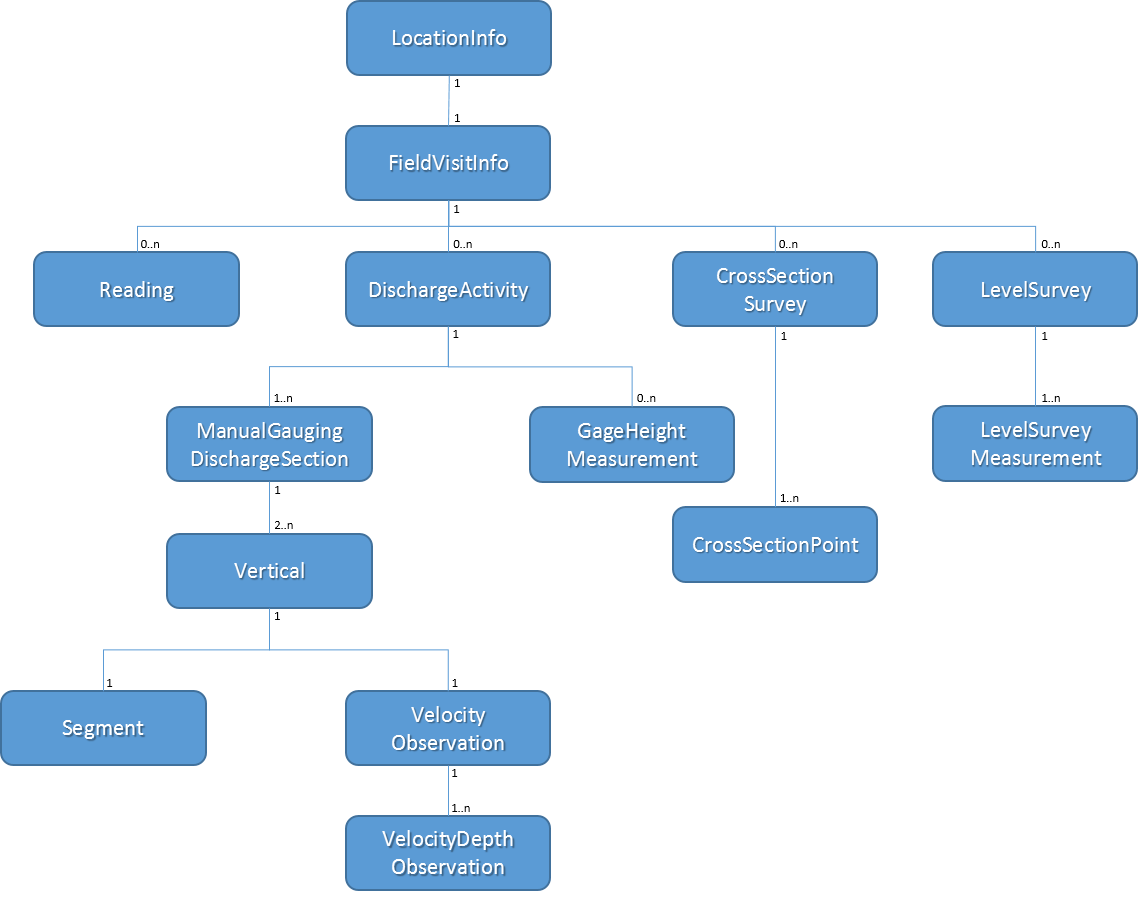
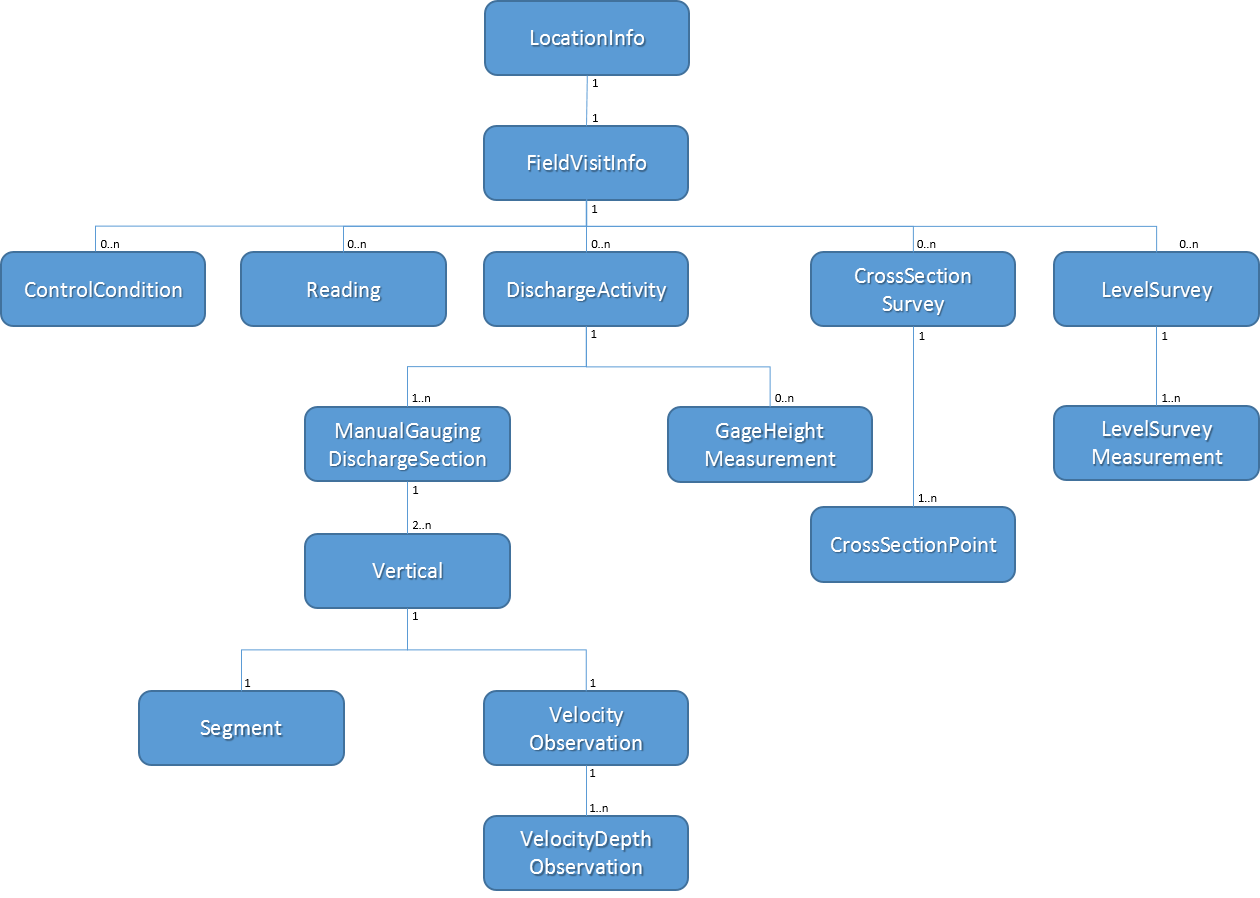
AQ-23735 Update Field Data Plug-in Developer Guide with 2018.2 changes

diff --git a/docs/Readme.md b/docs/Readme.md
@@ -12,7 +12,16 @@ This guide provides guidance for developing custom field data plug-ins for AQUAR
 
 If you would like to see more examples of field data plug-ins, please visit our [**Examples Repository**](https://github.com/AquaticInformatics/Examples/tree/master/TimeSeries/PublicApis/FieldDataPlugins) on GitHub.
 
-## Change log
+## Change Log
+
+### AQTS 2018.2
+
+- Added support to set reference points on Readings
+- Added Weather, CollectionAgency and CompletedVisitActivities properties on FieldVisitDetails
+- Added AdjustmentType, AdjustmentAmount, and ReasonForAdjustment properties on DischargeActivity
+- Expanded GageHeightCalculationType to support ManuallyCalculated and SimpleAverage options on DischargeActivity
+- Added support for ControlConditions
+- Enhanced the field data plug-in framework to support uploading attachments with a field data file
 
 ### AQTS 2018.1
 
@@ -21,7 +30,7 @@ If you would like to see more examples of field data plug-ins, please visit our 
 
 ### AQTS 2017.4
 
-- First supported release of the plugin framework
+- First supported release of the plug-in framework
 - The PDF of the 2017.4 framework guide can be found [here.](https://github.com/AquaticInformatics/aquarius-field-data-framework/blob/v17.4.3/docs/AQUARIUSDeveloperGuideFieldDataPluginFramework.pdf)
 
 # Overview
@@ -75,7 +84,7 @@ All Framework SDK data objects require timestamps specified as **DateTimeOffset*
 
 Similarly, **FieldVisitInfo** is an immutable object. It is created when the plug-in uses the **IFieldDataResultsAppender** to add an instance of a **FieldVisitDetails** object to a location.
 
-There are factory methods to create an instance of **CrossSectionSurvey**, **DischargeActivity**, and **ManualGaugingDischargeSection** object. Plug-ins should also use **IFieldDataResultsAppender** to add **Reading**, **CrossSectionSurvey**, **LevelSurvey** and **DischargeActivity** objects to the **IFieldVisitInfo**.
+There are factory methods to create an instance of **CrossSectionSurvey**, **DischargeActivity**, and **ManualGaugingDischargeSection** object. Plug-ins should also use **IFieldDataResultsAppender** to add field data objects to **IFieldVisitInfo**.
 
 Some enumerated types in the Framework SDK default to "Unknown" value.  When creating data objects that have these enumerated types as properties, the properties should be set to “Unspecified” value if there is no other appropriate value for it so that the data displays correctly in the Field Data Editor. For example, when creating an instance of **ManualGaugingDischargeSection**,
 
@@ -101,10 +110,10 @@ PM> Install-Package Aquarius.FieldDataFramework
 ```
 
 This will install:
-- the `lib\FieldDataPluginFramework.dll` assembly, which your plugin must consume and implement.
-- the [`tools\PluginTester.exe`](https://github.com/AquaticInformatics/aquarius-field-data-framework/tree/master/src/PluginTester) tool, for quickly testing your plugin without needing an AQTS server
-- the [`tools\PluginPackager.exe`](https://github.com/AquaticInformatics/aquarius-field-data-framework/tree/master/src/PluginPackager) tool, for packaging your plugin into a single `*.plugin` file for easy deployment.
-- the [`tools\FieldDataPluginTool.exe`](https://github.com/AquaticInformatics/aquarius-field-data-framework/tree/master/src/FieldDataPluginTool) tool for easily deploying your packaged plugin on an AQTS server.
+- the `lib\FieldDataPluginFramework.dll` assembly, which your plug-in must consume and implement.
+- the [`tools\PluginTester.exe`](https://github.com/AquaticInformatics/aquarius-field-data-framework/tree/master/src/PluginTester) tool, for quickly testing your plug-in without needing an AQTS server
+- the [`tools\PluginPackager.exe`](https://github.com/AquaticInformatics/aquarius-field-data-framework/tree/master/src/PluginPackager) tool, for packaging your plug-in into a single `*.plugin` file for easy deployment.
+- the [`tools\FieldDataPluginTool.exe`](https://github.com/AquaticInformatics/aquarius-field-data-framework/tree/master/src/FieldDataPluginTool) tool for easily deploying your packaged plug-in on an AQTS server.
 
 # Writing a Field Data Plug-In
 
@@ -133,7 +142,7 @@ In **IFieldDataPlugin**, there are two *ParseFile* method signatures:
     1. Called by the Framework when LocationManager, the Field Data Editor or AQUARIUS Acquisition API is used to import a data file;
     2. Field data will be created in the targetLocation.  If the data file references a location, it must match the targetLocation or the field data will not be imported.
 
-Each *ParseFile* method returns a **ParseFileResult** object.  **ParseFileResult** has static constructors to create an instance to represent the plugin status (SuccessullyParsedAndDataValid, SuccessfullyParsedButDataInvalid, CannotParse).
+Each *ParseFile* method returns a **ParseFileResult** object.  **ParseFileResult** has static constructors to create an instance to represent the plug-in status (SuccessullyParsedAndDataValid, SuccessfullyParsedButDataInvalid, CannotParse).  If your plug-in returns a SuccessfullyParsedButDataInvalid or CannotParser status, we recommend that it includes an error message or exception, which will be displayed as an error message to the user by the drag-and-drop interfaces.
 
 ## Tips
 
@@ -177,13 +186,13 @@ Each plug-in is provided a reference to an **ILog** object when its **ParseFile*
 
 The log messages written to *FieldDataPluginFramework.log* are designed to be easily parsed by log analytic tools, such as LogStash.
 
-# Packaging your plugin for easy deployment
+# Packaging your Plug-In for Easy Deployment
 
 See the [PluginPacker](https://github.com/AquaticInformatics/aquarius-field-data-framework/tree/master/src/PluginPackager) project for details on adding a build step that will automatically create a `*.plugin` file every time your project builds in Visual Studio. This file can be deployed using the `FieldDataPluginTool`.
 
-# Deploy your plugin using the FieldDataPluginTool
+# Deploy your plug-in using the FieldDataPluginTool
 
-See the [FieldDataPluginTool](https://github.com/AquaticInformatics/aquarius-field-data-framework/tree/master/src/FieldDataPluginTool) project for an easy to use GUI tool to correctly install your plugin on your AQTS app server.
+See the [FieldDataPluginTool](https://github.com/AquaticInformatics/aquarius-field-data-framework/tree/master/src/FieldDataPluginTool) project for an easy to use GUI tool to correctly install your plug-in on your AQTS server.
 
 # Manually Installing and Registering your Plug-In
 
@@ -198,7 +207,7 @@ But if you want to install and register your plug-in manually:
 4. Register your plug-in with the AQUARIUS Time-Series Server using the **POST /fielddataplugins** endpoint in the Provisioning API (http://\<yourservername\>/AQUARIUS/Provisioning/v1). The AQUARIUS Time-Series Server is not aware that your plug-in is installed until it is registered. The POST endpoint requires the following parameters:
     1. PluginFolderName – the name of the sub-folder;
     2. AssemblyQualifiedTypeName – the type name and display name of your plug-in assembly, which allows the Framework to load your plug-in using reflection.  The minimum specification of an AssemblyQualifiedTypeName is *{classTypeName}, {assemblyName}*. 
-    3. PluginPriority – the unique number representing the order that the Framework will run your plug-in will be run relative to other registered plug-ins (the framework runs plugins in ascending priority order). The highest priority plug-in has PluginPriority = 1;
+    3. PluginPriority – the unique number representing the order that the Framework will run your plug-in will be run relative to other registered plug-ins (the framework runs plug-ins in ascending priority order). The highest priority plug-in has PluginPriority = 1;
 5. When a plug-in is registered, it is assigned a unique ID. The plug-in’s unique ID will be used to unregister the plug-in from the Framework.
 
 For example, you have installed your plug-in assembly on the AQUARIUS Time-Series Server at %ProgramFiles%\\Aquatic Informatics\\AQUARIUS Server\\FieldDataPlugins\\MyPlugin\\MyFirstPlugin.dll.  The assembly contains a class, Foo.FieldDataPlugin that implements the IFieldDataPluginInterface. To register your plug-in, you would call **POST /fielddataplugins** in Provisioning API with the following input parameters:
@@ -214,7 +223,7 @@ For example, you have installed your plug-in assembly on the AQUARIUS Time-Serie
 
 For example, your AQUARIUS Time-Series Server has two plug-ins registered so that PluginA is assigned priority = 1 and PluginC is assigned priority = 3. 
 
-Now, you would like to install a new plugin, PluginB, so that it is the second plugin that will be run by the framework. To do so, you need to un-register and re-register PluginC with priority = 3 so that you can register PluginB with priority = 2.
+Now, you would like to install a new plug-in, PluginB, so that it is the second plug-in that will be run by the framework. To do so, you need to un-register and re-register PluginC with priority = 3 so that you can register PluginB with priority = 2.
 
 However, if PluginA and PluginB were registered so that PluginA is assigned priority = 100 and PluginC is assigned priority = 300, you do not need to change the priority of PluginC; you only need to assign PluginC a priority between 100 and 300.
 
@@ -226,7 +235,7 @@ To unregister a plug-in, you need to refer to the plug-in by its unique ID. A pl
 
 # Debugging your Plug-In
 
-After installing and registering your plug-in on the AQUARIUS Time-Series Server, you can test and debug your plug-in by using the drag-and-drop upload method, (available from Springboard, Location Manager or the Field Data Editor), to upload your test field data files. If there is a problem with your plug-in, the feedback from these drag-and-drop interfaces is not very informative:
+After installing and registering your plug-in on the AQUARIUS Time-Series Server, you can test and debug your plug-in by using the drag-and-drop upload method, (available from Springboard, Location Manager or the Field Data Editor), to upload your test field data files.  We recommend that your plug-in specifies an error message or exception when it returns a SuccessfullyParsedButDataInvalid or CannotParser status.  The error message or exception is displayed as feedback to the user by the drag-and-drop interfaces.  Otherwise, the feedback from these drag-and-drop interfaces may not be very informative:
 
 <p align="center">
 <img src="images/Figure4_DragAndDropErrorMessage.png" alt="Figure 4: Drag-and-drop Error Message">
@@ -260,5 +269,16 @@ This change will take effect immediately, without needing to re-start the server
 
 This will make reading the log files much more difficult, so you may want to resort to searching for specific terms instead of scanning the logs for errors. 
 
-When you have finished debugging your plugin, we recommend that you restore the log level in RemotingAppender.config to the INFO log level.
+When you have finished debugging your plug-in, we recommend that you restore the log level in RemotingAppender.config to the INFO log level.
 
+# Uploading Field Data with Attachments
+
+The Field Data Plug-In Framework will attach files to field visits when the custom field data file and its attachments are bundled into a single zip file.  The zip file is organized as follows:
+- A single custom field data file that is located at the root of the zip file; 
+- A sub-folder that is located at the root of the zip file containing any field visit attachments (for example, images, videos, files).  The sub-folder can be given any name;
+- If there are multiple files located at the root level of the zip folder, the Field Data Plug-In Framework will fail to parse the zip file for attachments;
+
+When the Field Data Plug-In Framework processes the zip file, it will
+- Pass the field data file to each registered parser.  If the field data file is successfully parsed by a plug-in, it will create the field visits;
+- Attach all of the files contained in the sub-folder to each field visit;
+- The zip file is not attached to the field visits;
